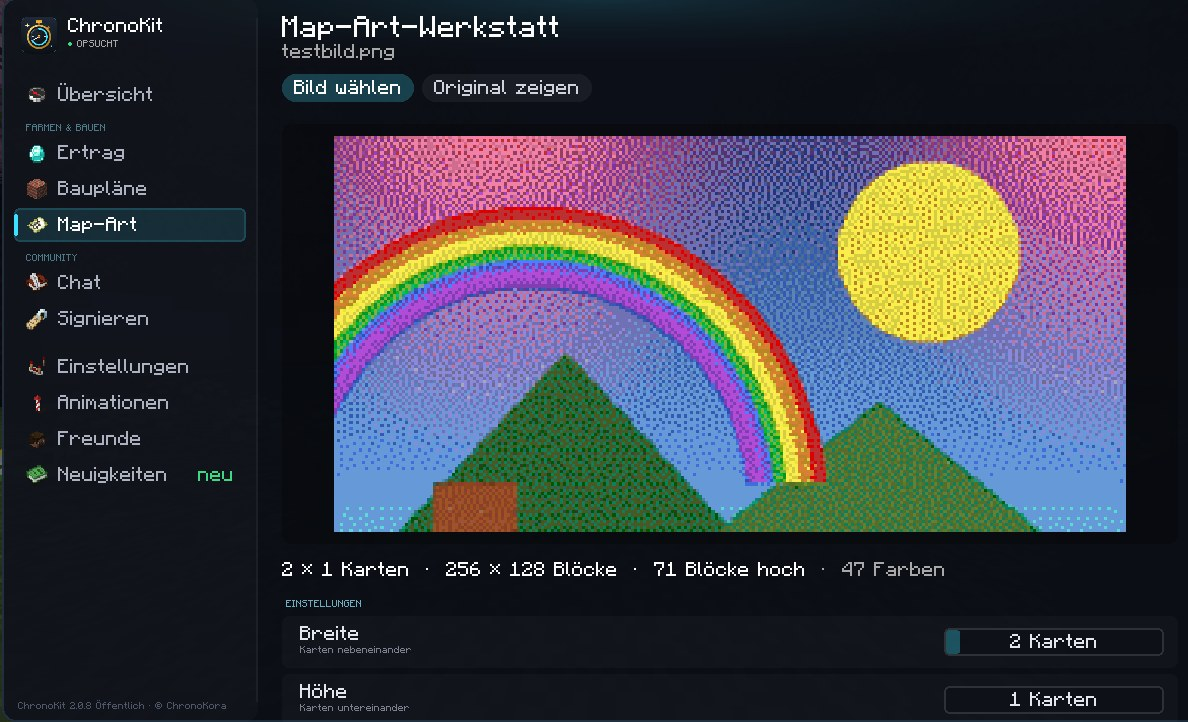
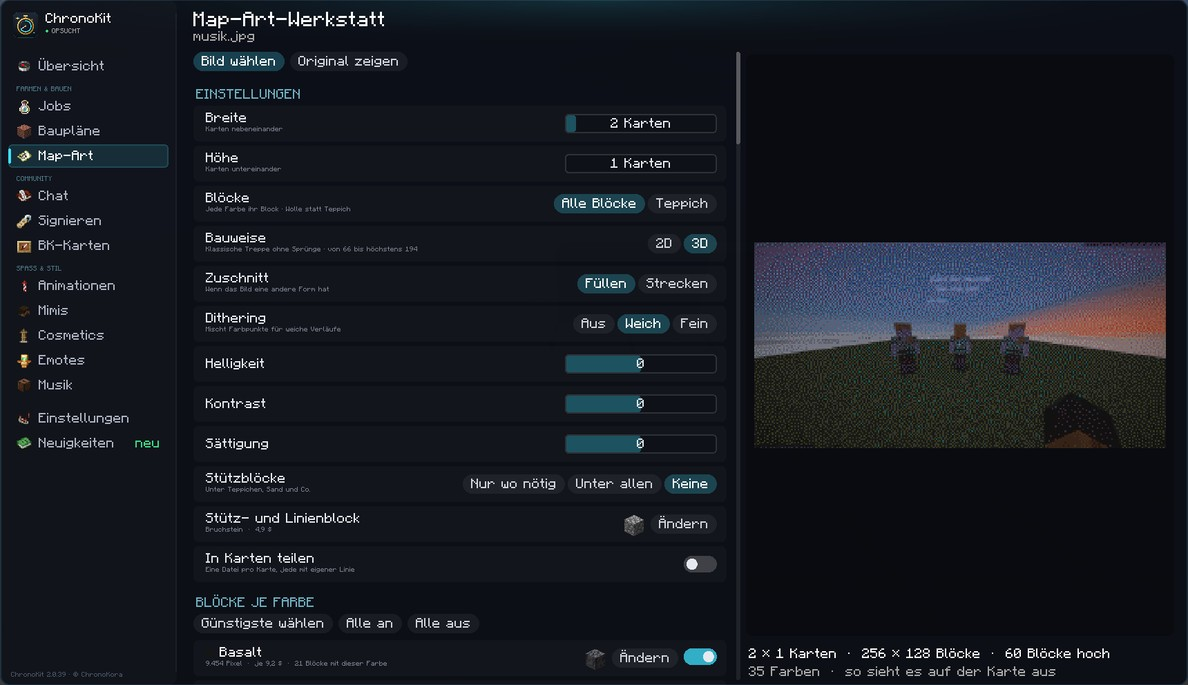
ChronoKit 2.0.39: Map-Art 2D/3D mit klassischer Treppe, Drop-Sperre, Sprühdosen, Musik-Quelle

diff --git a/chronokit.html b/chronokit.html
@@ -353,13 +353,13 @@
           <h3>Bild rein, Bauplan raus</h3>
           <p>Zieh ein Bild ins Minecraft-Fenster. ChronoKit macht daraus einen Litematica-Bauplan, mit Blockliste und Kosten nach OPSUCHT-Preisen.</p>
           <ul>
-            <li><b>2D mit Teppich</b>, <b>3D mit Wolle</b> oder <b>3D mit allen Blöcken</b></li>
-            <li>Bis zu <b>16 × 16 Karten</b>, die Bauhöhe stellst du selbst ein</li>
+            <li><b>Alle Blöcke</b> oder <b>Teppich</b>, jeweils <b>2D</b> oder <b>3D</b>: 3D baut die klassische Treppe ohne Sprünge, Teppich in 3D wird aus Wolle gebaut</li>
+            <li>Bis zu <b>16 × 16 Karten</b>, gebaut ab Höhe 66 bis höchstens 194, „Alle Blöcke“ nimmt Wolle statt Teppich</li>
             <li>Speichern, wohin du willst, auch in neue Ordner</li>
             <li><b>Kartenvorschau beim Bauen</b> (mit Litematica): eine Karte in der Hand zeigt den Plan, Gebautes blendet sich aus</li>
           </ul>
         </div>
-        <div class="media"><div class="shot"><img src="/assets/chronokit/mapart.jpg" alt="Map-Art-Werkstatt mit einem Regenbogen-Bild, 2 mal 1 Karten, 47 Farben" width="1188" height="722" loading="lazy"></div></div>
+        <div class="media"><div class="shot"><img src="/assets/chronokit/mapart.jpg" alt="Map-Art-Werkstatt: Blöcke Alle Blöcke oder Teppich, Bauweise 2D oder 3D, daneben die Vorschau eines Abendhimmels auf 2 mal 1 Karten, 60 Blöcke hoch, 35 Farben" width="1188" height="685" loading="lazy"></div></div>
       </div>
 
       <div class="row flip" id="bk-karten">
@@ -418,6 +418,7 @@
             <li><b>Liedzeile</b> oben rechts, das gesungene Wort leuchtet, und eine kleine <b>Musik-Ecke</b> unten links, beide verschiebbar</li>
             <li><b>Stimmung zur Musikrichtung</b>: Entspannt mit Glühwürmchen, Rock mit Glut und Wetterleuchten, Elektro mit Lasern, Pop mit Lichtkugeln, Hip-Hop mit Bass-Wellen, Klassik mit Polarlicht. Leise Stellen ruhiger, laute kräftiger, Pulse im Takt</li>
             <li>Zeile und Wörter stehen, wo du hinschaust, <b>fest in einer Himmelsrichtung</b> oder unter Sonne und Mond. Höhe und Breite stellst du ein: eng zusammen oder weit gefächert</li>
+            <li><b>Quelle</b>: nur Spotify, Spotify &amp; YouTube oder alles. Livestreams wie Twitch zählen nicht als Lied, und findet sich kein Liedtext, sucht <b>„Neu suchen“</b> noch einmal</li>
             <li>Farbe, Schrift, Entfernung, Größe und Liedtext-Zeit stellst du selbst ein. Ohne Anmeldung, Liedtexte von lrclib.net, Musikrichtung von MusicBrainz, nur unter Windows</li>
           </ul>
         </div>
@@ -620,7 +621,9 @@
           <div class="shot"><img src="/assets/chronokit/rtp.jpg" alt="Random-Teleport-Fenster mit Biomen und Preisen" width="870" height="670" loading="lazy"></div>
         </div>
         <div class="card"><p class="ico">BRUCH-SPERRE</p><h3>Kein Werkzeug geht mehr kaputt</h3><p>Fast kaputte Werkzeuge bauen und schlagen nicht mehr. Vorher gibt es eine Warnung.</p></div>
-        <div class="card"><p class="ico">PLATZWART</p><h3>Was darf weg?</h3><p>Beim Bauen mit Litematica zeigt dir ChronoKit, welche Blöcke im Inventar du noch brauchst.</p></div>
+        <div class="card"><p class="ico">PLATZWART</p><h3>Was darf weg?</h3><p>Beim Bauen mit Litematica zeigt dir ChronoKit, welche Blöcke im Inventar du noch brauchst. Fehlt Easy Place ein Block, öffnet sich der Markt mit der Suche danach.</p></div>
+        <div class="card"><p class="ico">DROP-SPERRE</p><h3>OP-Items bleiben bei dir</h3><p>Die Drop-Taste wirft OPSUCHT-Items, wertvolle Stapel und auf Wunsch verzauberte Ausrüstung nicht mehr weg. Mit Shift geht es trotzdem.</p></div>
+        <div class="card"><p class="ico">SPRÜHDOSEN</p><h3>Färben nach Plan</h3><p>Der Block im Fadenkreuz bekommt die Farbe aus deinem Litematica-Plan, oder im Malmodus jeder Block deine Malfarbe.</p></div>
         <div class="card"><p class="ico">CHAT</p><h3>Uhrzeit, Textersatz, Antwort-Knöpfe</h3><p>Kürzel werden zu ganzen Sätzen, Namen sind anklickbar, und der Link-Schutz hält Nachrichten mit Links erst mal zurück. Geschickt wird nie von allein.</p></div>
         <div class="card"><p class="ico">SIGN-GENERATOR</p><h3>Items signieren mit Stil</h3><p>Namen und Lore mit Farbverläufen und Symbolen, mit Vorschau, wie es im Spiel aussieht.</p></div>
         <div class="card"><p class="ico">HUD</p><h3>Alles dahin, wo du willst</h3><p>Jede Anzeige frei verschieben und mit dem Mausrad größer oder kleiner machen.</p></div>
@@ -653,7 +656,7 @@
       <div class="faq">
         <details><summary>Läuft ChronoKit mit LabyMod?</summary><p>Ja. LabyMod lädt Fabric-Mods aus seinem eigenen mods-Ordner. Wichtig: nicht zusammen mit dem alten ChronoKit-Addon aus dem Ordner „addons“, sonst läuft alles doppelt.</p></details>
         <details><summary>Spielt ChronoKit für mich?</summary><p>Nein. ChronoKit zeigt an, rechnet und warnt. Jede Aktion im Spiel machst du selbst.</p></details>
-        <details><summary>Welche Mods kann ich weglassen?</summary><p>ChronoKit macht schon, was diese machen: opmod, die LabyMod-Addons ChatTime, Chat Utilities und Quick Messages, Platzwart, Haltbarkeits-Warnungen fürs Werkzeug und Zieh-Animations-Mods. Nimm sie raus, sonst läuft manches doppelt.</p></details>
+        <details><summary>Welche Mods kann ich weglassen?</summary><p>ChronoKit macht schon, was diese machen: opmod, OPmatica, der BK-Kartenbrowser, die LabyMod-Addons ChatTime, Chat Utilities und Quick Messages, Platzwart, Haltbarkeits-Warnungen fürs Werkzeug und Zieh-Animations-Mods. Nimm sie raus, sonst läuft manches doppelt.</p></details>
         <details><summary>Wer sieht meine Mimis und Cosmetics?</summary><p>Alle Spieler in deiner Nähe, die ChronoKit haben, aber nur, wenn du beim ersten Start „Ja“ sagst. Dann gehen dein Minecraft-Name und deine Mimis und Cosmetics an den ChronoKit-Server. Ändern kannst du das jederzeit im Menü oder mit <code>/chronokit teilen nein</code>.</p></details>
         <details><summary>Was wird beim Gokart und bei den Spielen übertragen?</summary><p>Wer ein Spiel oder Rennen startet, meldet sich beim ChronoKit-Server an. Deinen Minecraft-Namen bestätigt dabei Mojang, so wie ein Server beim Beitreten. Dein Passwort sieht ChronoKit nie. Eine Rekordrunde geht nur mit deinem Namen hoch, wenn du das Teilen erlaubt hast.</p></details>
         <details><summary>Wie bekomme ich Updates?</summary><p>ChronoKit fragt im Chat, wenn es etwas Neues gibt. Ein Klick, Minecraft neu starten, fertig. Jede Datei ist digital signiert: installiert wird nur, was wirklich von ChronoKora kommt. Was neu ist, steht im Menü unter „Neuigkeiten“.</p></details>
